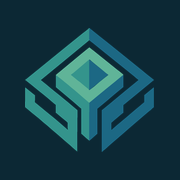
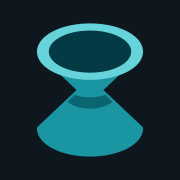
chore(brand): adopt Externa mark v3 and align admin colour palette (#259)
* chore(brand): update Externa mark v3 assets and AppLogoIcon

* chore(brand): align admin palette with Externa mark v3

Cache-bust default favicons with ?v=3, refresh AppLogo comment for the
bow-tie mark, and default primary/ring/chart tokens plus Appearance and
mail fallbacks to the v3 teal scale with WCAG 2.2 AA contrast.

* style(brand): prettier-format AppLogoIcon for quality check

---------

diff --git a/resources/js/components/app-logo-icon.tsx b/resources/js/components/app-logo-icon.tsx
@@ -2,8 +2,10 @@ import type { SVGAttributes } from 'react';
 import { cn } from '@/lib/utils';
 
 /**
- * Externa logo mark — colored 3-tone teal isometric portal
- * (same fills as public/logo.svg). Size via className.
+ * Externa mark v3: teal bow-tie (rim / body / waist band / mouth), lit from above.
+ * Light + dark fills via Tailwind `dark:`; no clipPath, so no id clashes when rendered many times.
+ * Same geometry as public/logo.svg (viewBox 20 20 472 472, square like before).
+ * Size via className.
  */
 export default function AppLogoIcon({
     className,
@@ -12,28 +14,30 @@ export default function AppLogoIcon({
     return (
         <svg
             {...props}
-            viewBox="0 0 100 96.65"
+            viewBox="20 20 472 472"
             xmlns="http://www.w3.org/2000/svg"
             aria-hidden={props['aria-hidden'] ?? true}
             className={cn(className)}
         >
-            {/* left / mid */}
             <path
-                fill="#34948C"
-                fillRule="evenodd"
-                d="M49.39 0.3L48.99 0.71L46.86 2.43L44.73 4.06L31.24 15.01L5.68 35.9L0.2 40.37L0.2 40.57L3.04 42.8L10.34 48.78L14.91 52.43L17.95 54.97L22.41 58.82L23.83 59.94L23.83 66.13L24.24 66.33L28.3 69.78L32.35 73.12L33.06 73.83L33.06 77.89L33.27 79.41L23.53 70.99L16.33 65.11L9.13 59.13L7.61 57.81L7.71 55.17L7.71 52.43L4.16 49.59L0.71 46.75L0.1 46.35L0.1 53.65L0 60.95L0.1 61.76L5.27 66.13L10.55 70.39L14 73.43L17.55 76.37L21.3 79.72L25.15 82.96L30.22 87.42L35.29 91.78L39.25 95.33L40.47 96.25L40.47 86.51L40.67 64.3L40.57 64L36.82 60.85L33.16 57.71L29.92 55.07L26.77 52.43L23.33 49.7L19.88 46.86L16.13 43.71L12.37 40.67L12.37 40.47L31.03 25.05L49.8 9.53L49.8 5.38L49.9 1.12L49.8 0ZM48.38 25.76L37.42 35.09L36.51 35.7L35.7 36.61L40.77 40.77L42.7 42.19L46.25 45.23L49.9 48.17L49.9 24.54L49.8 24.54ZM23.94 40.87L23.94 46.15L36.92 57.1L42.7 62.17L43.61 62.88L43.61 82.45L48.07 86.41L49.8 87.83L49.8 73.02L49.9 58.22L49.59 58.11L38.74 48.68L36.21 46.65L33.77 44.52L31.24 42.49L28.7 40.37L24.04 36.71L23.94 36.71Z"
+                className="fill-[#0E7C86] stroke-[#0E7C86] dark:fill-[#1A95A2] dark:stroke-[#1A95A2]"
+                strokeWidth={16}
+                strokeLinejoin="round"
+                d="M76 120L220 256L76 392A180 92 0 0 0 436 392L292 256L436 120Z"
             />
-            {/* right / dark */}
             <path
-                fill="#1C6884"
-                fillRule="evenodd"
-                d="M49.8 4.77L49.8 9.43L51.32 10.75L52.94 11.97L61.26 18.76L77.08 31.54L84.58 37.63L87.93 40.47L86.51 41.78L78.6 48.28L65.11 59.53L59.53 64.1L59.53 96.65L62.47 94.32L65.42 91.58L75.15 83.16L81.85 77.28L93.61 67.14L95.54 65.52L97.57 63.89L98.68 62.78L99.9 61.76L99.9 46.35L99.59 46.45L92.49 52.33L92.49 57.81L84.89 64.2L77.79 70.28L70.69 76.27L67.24 79.31L66.94 79.51L66.94 73.94L69.37 71.81L71.81 69.78L74.14 67.75L76.27 66.02L76.27 60.14L83.16 54.46L99.59 40.87L100 40.47L99.09 39.66L94.83 36.31L90.67 32.86L77.69 22.31L64.81 11.87L57.4 5.98L50 0L49.9 0ZM49.8 36.41L49.8 48.07L50 48.38L52.54 46.25L55.17 44.12L59.74 40.37L64.4 36.61L64.4 36.41L61.97 34.38L53.65 27.69L51.22 25.56L49.8 24.65ZM69.37 42.19L56.39 52.84L50.3 57.91L49.9 58.32L49.8 73.02L49.8 87.83L50 87.83L56.09 82.45L56.09 62.98L62.68 57.51L69.17 51.93L76.27 46.04L76.27 36.51L76.17 36.51Z"
+                className="fill-[#074F5A] dark:fill-[#0A6571]"
+                d="M308.42 273.39L306 274.25L303.53 275.06L301 275.84L298.43 276.57L295.81 277.26L293.14 277.90L290.44 278.50L287.70 279.05L284.93 279.56L282.13 280.02L279.29 280.43L276.44 280.80L273.56 281.12L270.66 281.39L267.75 281.61L264.82 281.78L261.89 281.90L258.94 281.98L256 282L253.06 281.98L250.11 281.90L247.18 281.78L244.25 281.61L241.34 281.39L238.44 281.12L235.56 280.80L232.71 280.43L229.87 280.02L227.07 279.56L224.30 279.05L221.56 278.50L218.86 277.90L216.19 277.26L213.57 276.57L211 275.84L208.47 275.06L206 274.25L203.58 273.39L202.16 272.85L176.26 297.31L176.63 297.68L178.06 299L179.57 300.29L181.17 301.56L182.84 302.79L184.60 304L186.43 305.18L188.33 306.33L190.31 307.45L192.36 308.53L194.48 309.57L196.66 310.58L198.90 311.56L201.21 312.49L203.58 313.39L206 314.25L208.47 315.06L211 315.84L213.57 316.57L216.19 317.26L218.86 317.90L221.56 318.50L224.30 319.05L227.07 319.56L229.87 320.02L232.71 320.43L235.56 320.80L238.44 321.12L241.34 321.39L244.25 321.61L247.18 321.78L250.11 321.90L253.06 321.98L256 322L258.94 321.98L261.89 321.90L264.82 321.78L267.75 321.61L270.66 321.39L273.56 321.12L276.44 320.80L279.29 320.43L282.13 320.02L284.93 319.56L287.70 319.05L290.44 318.50L293.14 317.90L295.81 317.26L298.43 316.57L301 315.84L303.53 315.06L306 314.25L308.42 313.39L310.79 312.49L313.10 311.56L315.34 310.58L317.52 309.57L319.64 308.53L321.69 307.45L323.67 306.33L325.57 305.18L327.40 304L329.16 302.79L330.83 301.56L332.43 300.29L333.94 299L335.37 297.68L335.74 297.31L309.84 272.85Z"
             />
-            {/* top / light */}
             <path
-                fill="#60B498"
-                fillRule="evenodd"
-                d="M44.93 19.07L27.99 33.16L24.44 36.11L24.04 36.71L28.7 40.37L31.24 42.49L33.77 44.52L36.21 46.65L38.74 48.68L49.59 58.11L50.61 57.61L56.8 52.43L63.08 47.26L69.68 41.89L76.27 36.41L75.66 35.8L73.43 33.98L71.2 32.25L53.14 17.65L49.9 15.11L49.8 15.11ZM50.51 24.95L54.36 28.19L60.95 33.57L62.47 34.89L64.5 36.41L64.5 36.61L62.07 38.54L57.81 41.99L53.65 45.54L50 48.38L49.29 47.67L45.94 44.93L42.7 42.19L40.77 40.77L35.7 36.61L35.7 36.41L36.51 35.7L37.42 35.09L49.8 24.54L50.1 24.65Z"
+                className="fill-[#2CB1BC] stroke-[#2CB1BC] dark:fill-[#66D3DB] dark:stroke-[#66D3DB]"
+                strokeWidth={16}
+                strokeLinejoin="round"
+                d="M76 120A180 92 0 1 1 436 120A180 92 0 1 1 76 120Z"
+            />
+            <path
+                className="fill-[#043A43]"
+                d="M110 120A146 74.62 0 1 1 402 120A146 74.62 0 1 1 110 120Z"
             />
         </svg>
     );

diff --git a/resources/css/app.css b/resources/css/app.css
@@ -69,9 +69,12 @@
     --card-foreground: oklch(0.145 0 0);
     --popover: oklch(1 0 0);
     --popover-foreground: oklch(0.145 0 0);
-    /* Brand hex applied as-is; dark uses --brand-primary-dark */
-    --primary: var(--brand-primary, oklch(0.205 0 0));
-    --primary-foreground: var(--brand-primary-foreground, oklch(0.985 0 0));
+    /*
+     * Externa mark v3 defaults (Appearance / --brand-* overrides these):
+     * light body #0E7C86 + white fg (4.95:1 AA); ring uses rim #2CB1BC.
+     */
+    --primary: var(--brand-primary, #0e7c86);
+    --primary-foreground: var(--brand-primary-foreground, #ffffff);
     --secondary: oklch(0.97 0 0);
     --secondary-foreground: oklch(0.205 0 0);
     --muted: oklch(0.97 0 0);
@@ -82,24 +85,21 @@
     --destructive-foreground: oklch(0.577 0.245 27.325);
     --border: oklch(0.922 0 0);
     --input: oklch(0.922 0 0);
-    --ring: oklch(0.87 0 0);
+    --ring: var(--brand-primary, #2cb1bc);
     --chart-1: oklch(0.646 0.222 41.116);
-    --chart-2: oklch(0.6 0.118 184.704);
-    --chart-3: oklch(0.398 0.07 227.392);
+    --chart-2: #0e7c86;
+    --chart-3: #074f5a;
     --chart-4: oklch(0.828 0.189 84.429);
     --chart-5: oklch(0.769 0.188 70.08);
     --radius: 0.625rem;
     --sidebar: oklch(0.985 0 0);
     --sidebar-foreground: oklch(0.145 0 0);
-    --sidebar-primary: var(--brand-primary, oklch(0.205 0 0));
-    --sidebar-primary-foreground: var(
-        --brand-primary-foreground,
-        oklch(0.985 0 0)
-    );
+    --sidebar-primary: var(--brand-primary, #0e7c86);
+    --sidebar-primary-foreground: var(--brand-primary-foreground, #ffffff);
     --sidebar-accent: oklch(0.97 0 0);
     --sidebar-accent-foreground: oklch(0.205 0 0);
     --sidebar-border: oklch(0.922 0 0);
-    --sidebar-ring: oklch(0.87 0 0);
+    --sidebar-ring: var(--brand-primary, #2cb1bc);
 }
 
 .dark {
@@ -109,13 +109,11 @@
     --card-foreground: oklch(0.985 0 0);
     --popover: oklch(0.145 0 0);
     --popover-foreground: oklch(0.985 0 0);
-    --primary: var(
-        --brand-primary-dark,
-        var(--brand-primary, oklch(0.985 0 0))
-    );
+    /* Dark body #1A95A2 + black fg (5.86:1 AA); rim #66D3DB for rings */
+    --primary: var(--brand-primary-dark, var(--brand-primary, #1a95a2));
     --primary-foreground: var(
         --brand-primary-dark-foreground,
-        var(--brand-primary-foreground, oklch(0.205 0 0))
+        var(--brand-primary-foreground, #000000)
     );
     --secondary: oklch(0.269 0 0);
     --secondary-foreground: oklch(0.985 0 0);
@@ -127,26 +125,23 @@
     --destructive-foreground: oklch(0.637 0.237 25.331);
     --border: oklch(0.269 0 0);
     --input: oklch(0.269 0 0);
-    --ring: oklch(0.439 0 0);
+    --ring: var(--brand-primary-dark, var(--brand-primary, #66d3db));
     --chart-1: oklch(0.488 0.243 264.376);
-    --chart-2: oklch(0.696 0.17 162.48);
-    --chart-3: oklch(0.769 0.188 70.08);
+    --chart-2: #1a95a2;
+    --chart-3: #66d3db;
     --chart-4: oklch(0.627 0.265 303.9);
     --chart-5: oklch(0.645 0.246 16.439);
     --sidebar: oklch(0.205 0 0);
     --sidebar-foreground: oklch(0.985 0 0);
-    --sidebar-primary: var(
-        --brand-primary-dark,
-        var(--brand-primary, oklch(0.985 0 0))
-    );
+    --sidebar-primary: var(--brand-primary-dark, var(--brand-primary, #1a95a2));
     --sidebar-primary-foreground: var(
         --brand-primary-dark-foreground,
-        var(--brand-primary-foreground, oklch(0.205 0 0))
+        var(--brand-primary-foreground, #000000)
     );
     --sidebar-accent: oklch(0.269 0 0);
     --sidebar-accent-foreground: oklch(0.985 0 0);
     --sidebar-border: oklch(0.269 0 0);
-    --sidebar-ring: oklch(0.439 0 0);
+    --sidebar-ring: var(--brand-primary-dark, var(--brand-primary, #66d3db));
 }
 
 @layer base {

diff --git a/resources/js/pages/settings/appearance.tsx b/resources/js/pages/settings/appearance.tsx
@@ -32,7 +32,11 @@ import type { AdminFileRow } from '@/types/files';
 
 type FileFieldKey = 'project_logo' | 'project_logo_dark' | 'public_favicon';
 
-const DEFAULT_PROJECT_COLOR = '#0f172a';
+/** Externa mark v3 body (light); WCAG AA with white foreground. */
+const DEFAULT_PROJECT_COLOR = '#0E7C86';
+
+/** Externa mark v3 body (dark); WCAG AA with black foreground. */
+const DEFAULT_PROJECT_COLOR_DARK = '#1A95A2';
 
 /**
  * Apply draft brand colors to CSS vars for live preview.
@@ -138,8 +142,9 @@ export default function Appearance({
     const initialColor = appearance.project_color ?? DEFAULT_PROJECT_COLOR;
     const initialColorDark =
         appearance.project_color_dark ??
-        appearance.project_color ??
-        DEFAULT_PROJECT_COLOR;
+        (appearance.project_color
+            ? appearance.project_color
+            : DEFAULT_PROJECT_COLOR_DARK);
     const initialAppearance = appearance.default_appearance;
     const initialFiles = useMemo(
         () => ({
@@ -303,7 +308,7 @@ export default function Appearance({
                                                 )
                                             }
                                             className="h-7 min-w-0 flex-1 border-0 bg-transparent px-0 font-mono shadow-none focus-visible:ring-0"
-                                            placeholder="#0f172a"
+                                            placeholder="#0E7C86"
                                         />
                                     </div>
                                     <InputError
@@ -341,7 +346,7 @@ export default function Appearance({
                                                 'settings.appearance.projectColorDark',
                                             )}
                                             className="h-7 min-w-0 flex-1 border-0 bg-transparent px-0 font-mono shadow-none focus-visible:ring-0"
-                                            placeholder="#0f172a"
+                                            placeholder="#1A95A2"
                                         />
                                     </div>
                                     <InputError

diff --git a/resources/js/components/app-logo.tsx b/resources/js/components/app-logo.tsx
@@ -5,7 +5,7 @@ import { useAppearance } from '@/hooks/use-appearance';
 /**
  * Brand mark and application name for sidebar and header chrome.
  * Custom project logos render as a plain image; the default mark is the
- * colored 3-tone Externa isometric (same teal fills as public/logo.svg).
+ * Externa v3 bow-tie (same teal fills as public/logo.svg / AppLogoIcon).
  * @returns {JSX.Element}
  */
 export default function AppLogo() {

diff --git a/tests/Feature/Mail/BrandedTransactionalMailTest.php b/tests/Feature/Mail/BrandedTransactionalMailTest.php
@@ -65,6 +65,23 @@ test('verify email HTML uses project branding without Laravel logo', function ()
         ->not->toContain('laravel.com/img/notification-logo');
 });
 
+test('mail falls back to mark v3 teal when project color unset', function () {
+    app(SettingsRepository::class)->setMany(SettingsRepository::SCOPE_PROJECT, 'project', [
+        'name' => 'Default Teal Project',
+    ]);
+    app(SettingsRepository::class)->setMany(SettingsRepository::SCOPE_PROJECT, 'appearance', [
+        'project_color' => null,
+        'project_logo' => null,
+    ]);
+
+    $user = User::factory()->create();
+    $html = (new ResetPassword('test-token'))->toMail($user)->render()->toHtml();
+
+    expect($html)
+        ->toContain('Default Teal Project')
+        ->toContain('#0E7C86');
+});
+
 test('mail falls back to project name text when logo unset', function () {
     app(SettingsRepository::class)->setMany(SettingsRepository::SCOPE_PROJECT, 'project', [
         'name' => 'Text Only Project',

diff --git a/tests/Unit/Support/ContrastingForegroundTest.php b/tests/Unit/Support/ContrastingForegroundTest.php
@@ -14,6 +14,14 @@ test('light hex gets dark foreground', function () {
         ->and(ContrastingForeground::forHex('#abcdef'))->toBe('#000000');
 });
 
+test('externa mark v3 brand bodies pick AA-safe foregrounds', function () {
+    // Light body #0E7C86 → white (4.95:1); dark body #1A95A2 → black (5.86:1).
+    expect(ContrastingForeground::forHex('#0E7C86'))->toBe('#ffffff')
+        ->and(ContrastingForeground::forHex('#1A95A2'))->toBe('#000000')
+        ->and(ContrastingForeground::forHex('#074F5A'))->toBe('#ffffff')
+        ->and(ContrastingForeground::forHex('#2CB1BC'))->toBe('#000000');
+});
+
 test('invalid hex returns null', function () {
     expect(ContrastingForeground::forHex(null))->toBeNull()
         ->and(ContrastingForeground::forHex(''))->toBeNull()

diff --git a/resources/views/app.blade.php b/resources/views/app.blade.php
@@ -42,9 +42,9 @@
         @if (! empty($projectFaviconUrl))
             <link rel="icon" href="{{ $projectFaviconUrl }}">
         @else
-            <link rel="icon" href="/favicon.ico" sizes="any">
-            <link rel="icon" href="/favicon.svg" type="image/svg+xml">
-            <link rel="apple-touch-icon" href="/apple-touch-icon.png">
+            <link rel="icon" href="/favicon.ico?v=3" sizes="any">
+            <link rel="icon" href="/favicon.svg?v=3" type="image/svg+xml">
+            <link rel="apple-touch-icon" href="/apple-touch-icon.png?v=3">
         @endif
 
         <link rel="preconnect" href="https://fonts.bunny.net">

diff --git a/tests/Feature/Settings/AppearanceSettingsTest.php b/tests/Feature/Settings/AppearanceSettingsTest.php
@@ -31,6 +31,14 @@ test('guests are redirected from appearance settings', function () {
     $this->get(route('appearance.edit'))->assertRedirect(route('login'));
 });
 
+test('shell uses cache-busted default favicons when project favicon unset', function () {
+    $this->get(route('login'))
+        ->assertOk()
+        ->assertSee('/favicon.ico?v=3', false)
+        ->assertSee('/favicon.svg?v=3', false)
+        ->assertSee('/apple-touch-icon.png?v=3', false);
+});
+
 test('users without permission receive 403 on appearance get and put', function () {
     $user = User::factory()->create();
 

diff --git a/app/Services/Settings/ProjectAppearance.php b/app/Services/Settings/ProjectAppearance.php
@@ -135,7 +135,7 @@ class ProjectAppearance
         $shared = $this->shared();
         $primary = is_string($shared['projectColor'] ?? null) && $shared['projectColor'] !== ''
             ? $shared['projectColor']
-            : '#18181b';
+            : '#0E7C86';
         $foreground = ContrastingForeground::forHex($primary) ?? ContrastingForeground::WHITE;
 
         return [

diff --git a/CHANGELOG.md b/CHANGELOG.md
@@ -9,6 +9,10 @@ Version source of truth: `composer.json` `version` (mirrored in `package.json`).
 
 ## [Unreleased]
 
+### Changed
+
+- Externa mark v3 (bow-tie) assets and admin colour defaults: primary `#0E7C86` (light) / `#1A95A2` (dark), focus rings and chart accents from the v3 teal scale; favicon links cache-busted with `?v=3` (#258)
+
 ## [1.2.3] - 2026-10-22
 
 ### Security
